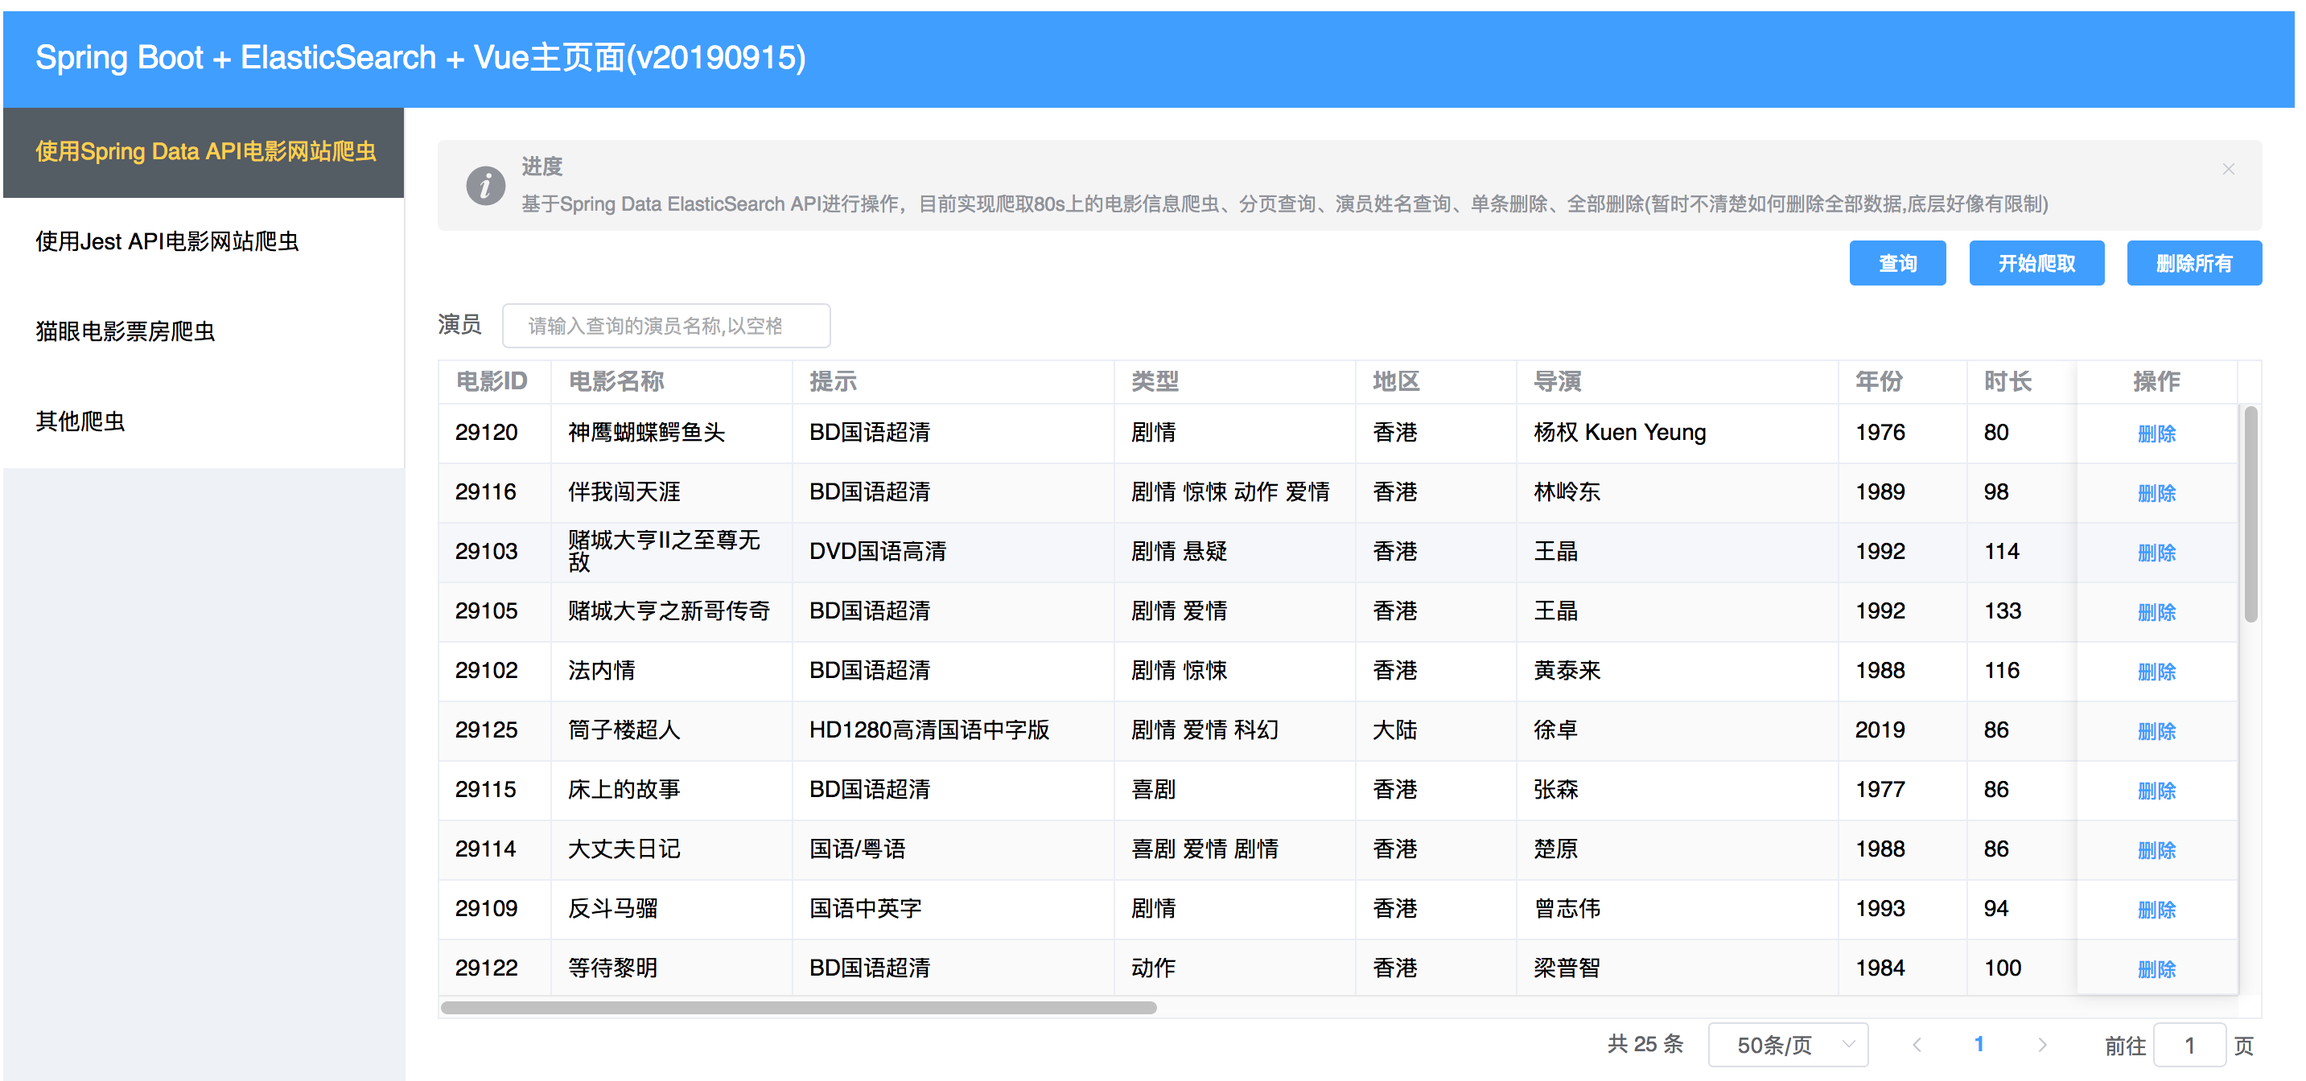
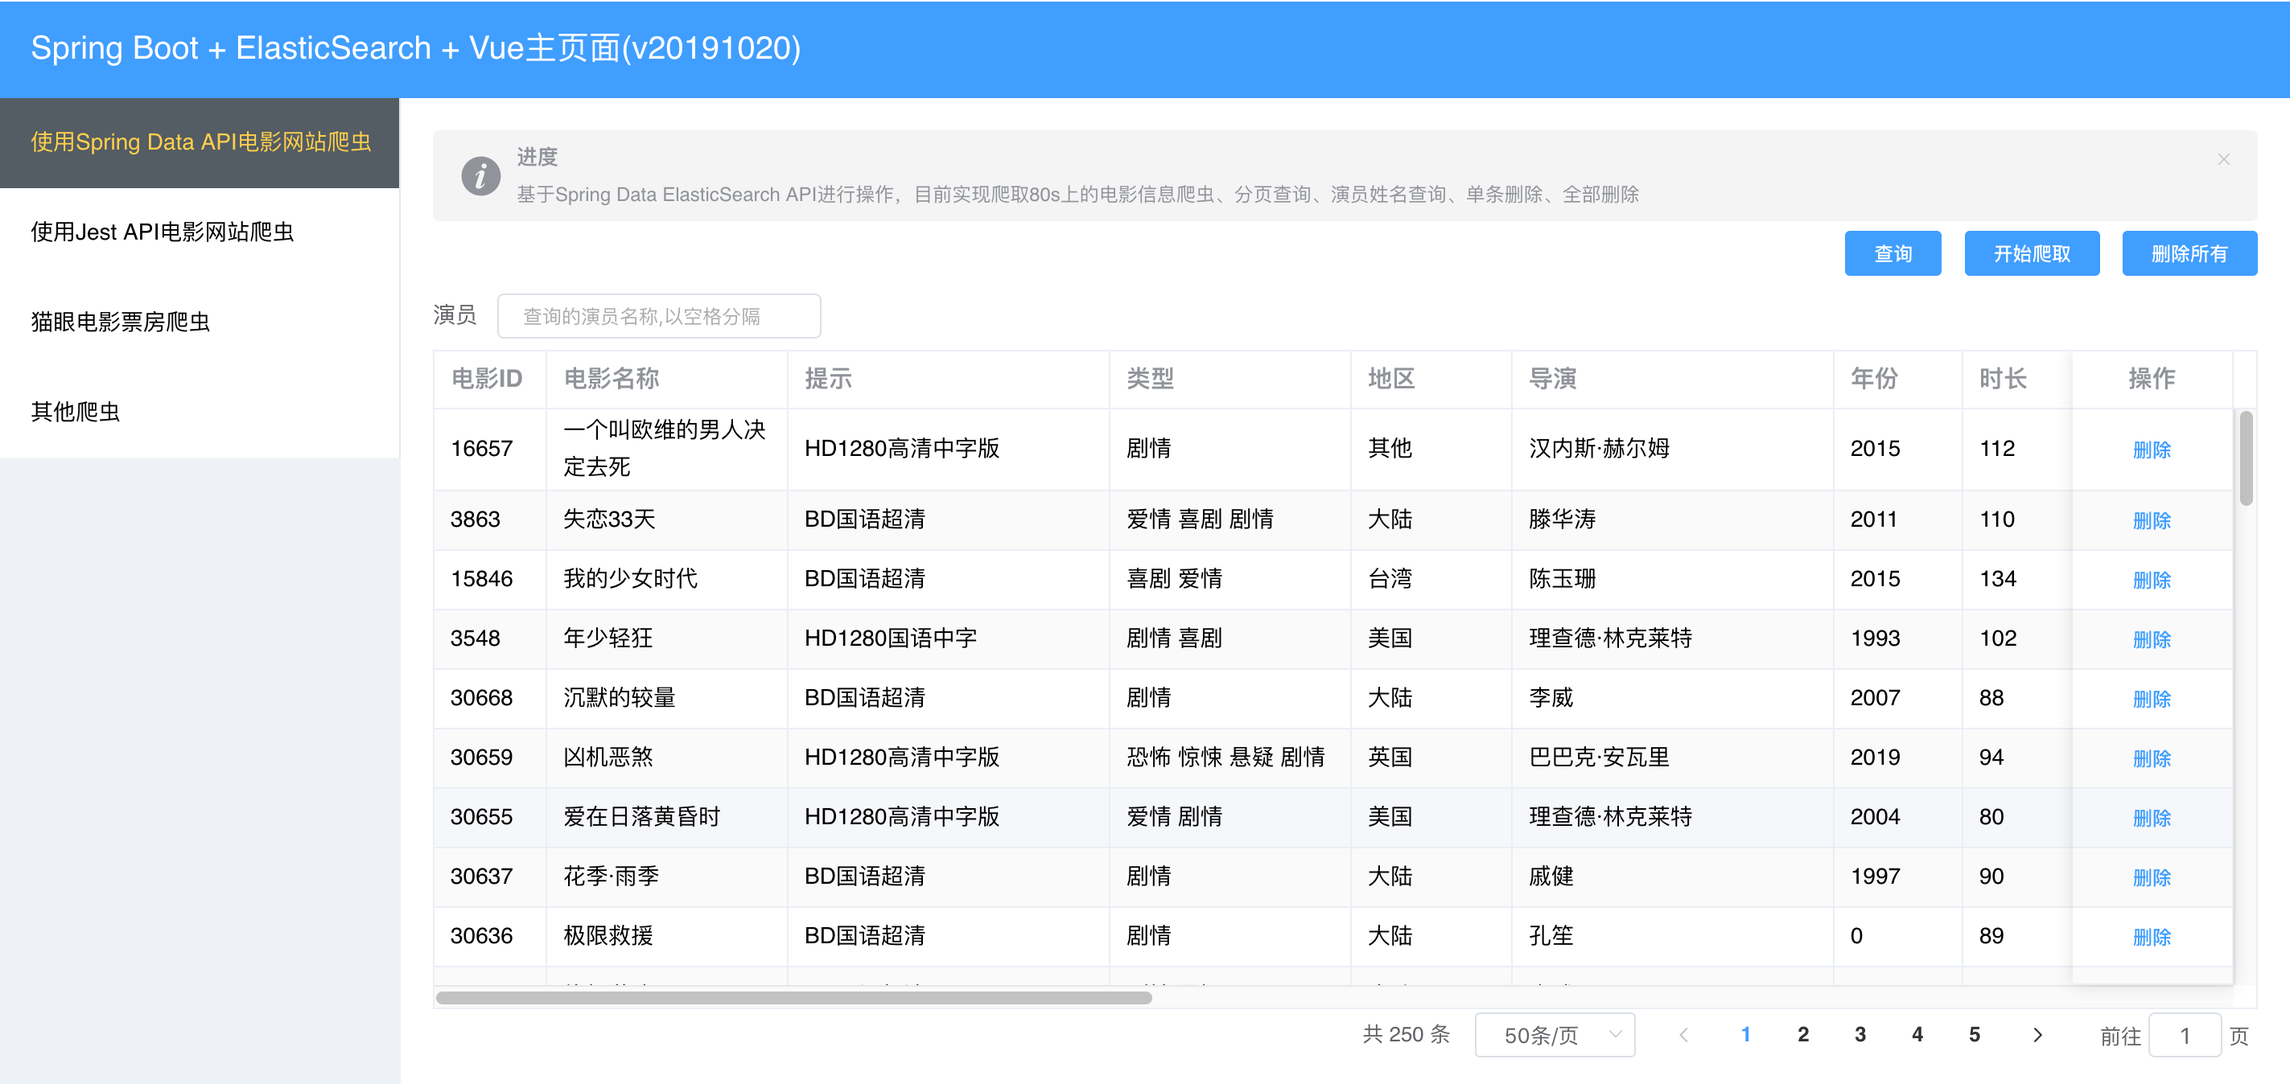
升级Spring Data ElasticSearch版本为3.2,修改相关代码

diff --git a/src/main/resources/static/index.html b/src/main/resources/static/index.html
@@ -40,7 +40,7 @@
         <div id="app">
             <el-container>
                 <el-header class="top">
-                    Spring Boot + ElasticSearch + Vue主页面(v20190915)
+                    Spring Boot + ElasticSearch + Vue主页面(v20191020)
                 </el-header>
                 <el-container>
                     <el-aside width="250px" style="background-color: rgb(238, 241, 246)">
@@ -85,7 +85,7 @@
         var movie = {
                     template :'<div v-loading="vloading"><el-row>\n' +
                 '                            <el-alert title="进度" type="info"\n' +
-                '                                      description="基于Spring Data ElasticSearch API进行操作，目前实现爬取80s上的电影信息爬虫、分页查询、演员姓名查询、单条删除、全部删除(暂时不清楚如何删除全部数据,底层好像有限制)' +
+                '                                      description="基于Spring Data ElasticSearch API进行操作，目前实现爬取80s上的电影信息爬虫、分页查询、演员姓名查询、单条删除、全部删除' +
                         '" show-icon>\n' +
                 '                            </el-alert>\n' +
                 '                        </el-row>\n' +

diff --git a/src/main/java/com/china/elasticsearch/util/MovieDownloadUtil.java b/src/main/java/com/china/elasticsearch/util/MovieDownloadUtil.java
@@ -18,7 +18,7 @@ import java.util.regex.Pattern;
  */
 public class MovieDownloadUtil {
 
-   public static final String ROOT_URL =  "http://80s.la";
+   public static final String ROOT_URL =  "http://www.8080s.net";
 
     public static final String BASIC_URL = ROOT_URL + "/movie/list/-----p";
 
@@ -28,7 +28,7 @@ public class MovieDownloadUtil {
 
     public static final String USER_AGENT = "Mozilla/5.0 (Macintosh; Intel Mac OS X 10.12; rv:61.0) Gecko/20100101 Firefox/61.0";
 
-    public static final int TOTAL_PAGE = 1;
+    public static final int TOTAL_PAGE = 10;
 
     public static void main(String[] args){
         startGetMovies();
@@ -67,10 +67,20 @@ public class MovieDownloadUtil {
             Document detailDocument = Jsoup.connect(ROOT_URL + href).userAgent(USER_AGENT).get();
             Element infoEle = detailDocument.select(DEATAIL_CSS_PATH).get(0);
             String deMovieName = infoEle.selectFirst("h1.font14w").text();
-            String year = deMovieName.substring(deMovieName.indexOf("(") + 1,deMovieName.lastIndexOf(")"));//年份
-            if("未知".equals(year)){
-                year = "0";
+            int year = 0;
+            try{
+                String yearStr = deMovieName.substring(deMovieName.lastIndexOf("(") + 1,deMovieName.lastIndexOf(")"));//年份
+                if("未知".equals(yearStr)){
+                    year = 0;
+                }else{
+                    year = Integer.parseInt(yearStr);
+                }
+            }catch(Exception e){
+                e.printStackTrace();
+                System.out.println(movieName);
             }
+
+
 
             String tip = infoEle.selectFirst(".tip") != null ? infoEle.selectFirst(".tip").text() :"";//版本提示
 
@@ -97,7 +107,7 @@ public class MovieDownloadUtil {
 
             entity.setMovieId(movieId);
             entity.setMovieName(movieName);
-            entity.setYear(Integer.parseInt(year));
+            entity.setYear(year);
             entity.setTip(tip);
             entity.setScore(Double.parseDouble(scoreText));
 

diff --git a/src/main/java/com/china/elasticsearch/bean/MovieEntity.java b/src/main/java/com/china/elasticsearch/bean/MovieEntity.java
@@ -59,6 +59,9 @@ public class MovieEntity implements Serializable {
     /**片长*/
     private int minute;
 
+    private Date createDate;
+
+    private Date updateDate;
 
     public String getMovieId() {
         return movieId;
@@ -154,5 +157,21 @@ public class MovieEntity implements Serializable {
 
     public void setMinute(int minute) {
         this.minute = minute;
+    }
+
+    public Date getCreateDate() {
+        return createDate;
+    }
+
+    public void setCreateDate(Date createDate) {
+        this.createDate = createDate;
+    }
+
+    public Date getUpdateDate() {
+        return updateDate;
+    }
+
+    public void setUpdateDate(Date updateDate) {
+        this.updateDate = updateDate;
     }
 }

diff --git a/src/main/java/com/china/elasticsearch/service/impl/MovieService.java b/src/main/java/com/china/elasticsearch/service/impl/MovieService.java
@@ -86,6 +86,11 @@ public class MovieService implements IMovieService {
     public void startDownloadMovie(){
         System.out.println("--------------准备开始爬取--------------");
         List<MovieEntity> list = MovieDownloadUtil.startGetMovies();
+        if(list != null && list.size() > 0){
+            for(MovieEntity entity : list){
+                entity.setCreateDate(new Date());
+            }
+        }
         System.out.println("--------------爬取完成--------------");
         movieDao.saveBatch(list);
         System.out.println("--------------保存完成--------------");

diff --git a/src/main/java/com/china/elasticsearch/common/BaseElasticSearchDaoImpl.java b/src/main/java/com/china/elasticsearch/common/BaseElasticSearchDaoImpl.java
@@ -143,14 +143,13 @@ public class BaseElasticSearchDaoImpl implements IBaseElasticSearchDao{
 
 
     /**
-     * 删除所有数据,目前好像只能删除前1000条
+     * 删除所有数据
      * @param entityClass
      */
     @Override
     public void deleteAll(Class<?> entityClass){
         DeleteQuery query = new DeleteQuery();
         query.setQuery(matchAllQuery());
-        //这里底层目前好像是只删除前1000条,如果没有指定size的话
         elasticsearchTemplate.delete(query,entityClass);
     }
 

diff --git a/src/main/java/com/china/elasticsearch/controller/FirstESController.java b/src/main/java/com/china/elasticsearch/controller/FirstESController.java
@@ -108,7 +108,6 @@ public class FirstESController {
                 .withUpdateRequest(up)
                 .withClass(FirstBook.class)
                 .build();
-
         elasticsearchTemplate.update(updateQuery);
     }
 

diff --git a/README.md b/README.md
@@ -1,9 +1,9 @@
-# 基于ElasticSearch6.8.2研究
+# 基于ElasticSearch6.8.2进行开发
 
 ## 项目描述
 基于Docker环境运行的ElasticSearch6.8.2,目前项目中集成了3种与ElasticSearch交互的API:
-1. 使用Spring Data ElasticSearch 3.1.10,需使用ES API为6.2.2
-2. 使用Rest High Level Client 6.2.2
+1. 使用Spring Data ElasticSearch 3.2.0,需使用ES API为6.8.2
+2. 使用Rest High Level Client 6.8.2
 3. 使用Jest API 6.3.1
 
 项目暂时未使用脚手架的方式开发Vue前端界面,采用了原始的方式进行开发
@@ -11,13 +11,13 @@
 ## 技术架构
 
 1. JDK 1.8
-2. Spring Boot 2.1.7
-3. Spring 5.1.9
+2. Spring Boot 2.2.0
+3. Spring 5.2.0
 4. Tomcat 9.0.22
 5. Docker 18.09.1
-6. ElasticSearch API 6.2.2
-7. Spring Data ElasticSearch 3.1.10
-8. Rest High Level Client 6.2.2
+6. ElasticSearch API 6.8.2
+7. Spring Data ElasticSearch 3.2.0
+8. Rest High Level Client 6.8.2
 9. Jest API 6.3.1
 10. Vue2.6 + Vue Router + Element UI 2.11.1 + Axios + Qs
 
@@ -26,6 +26,7 @@
 |  API名称   | 端口  | 协议  | 说明  |
 |  ----  | ----  | ----   | ----  |
 |  Spring Data ElasticSearch   | 9300  | TCP  | 强依赖、上手容易、操作简单、依赖ES驱动包  |
+|  Spring Data ElasticSearch   | 9200  | HTTP  | 强依赖、上手容易、操作简单、依赖ES驱动包,3.2版本开始  |
 |  High Level RestClient  | 9200  | HTTP  |  官方推荐、依赖ES驱动包  |
 |  Jest   | 9200  | HTTP  | 弱依赖、可以不使用ES的驱动包  |
 
@@ -39,7 +40,7 @@
 目前实现：
 1. 从80s网站爬虫电影信息,使用Jsoup
 2. 页面的分页查询操作,使用Spring Data ElasticSearch与Jest API
-3. 全部删除操作(Jest Api使用deleteByQuery，Spring Data API可能是分页删除的)
+3. 全部删除操作
 4. 单条删除操作
 5. 根据演员信息进行查询(Spring Data ElasticSearch好使)
 
@@ -51,7 +52,7 @@
 
 ## 核心代码/业务/经验说明
 1. 由于ES的写入和刷新机制,对文档进行写操作后,默认1s内进行查询不会实时看见数据,所以需要在API层面或代码层面进行控制,对于实时性要求较高的
-2. 由于Spring Data ElasticSearch对ElasticSearch客户端的Java API较高,应按照官方推荐进行设置,这里将ES API更改为6.2.2
+2. 由于Spring Data ElasticSearch对ElasticSearch客户端的Java API较高,应按照官方推荐进行设置,这里将ES API更改为6.8.2
 3. 对于演员字段来说，目前存储到数据库中的格式为多个空格分隔演员名称,那么为了能够被检索出来，需要设置该字段的分析器未whitespace,这样当搜索【刘德华】时才可以被检索出来
 4. 默认情况下match的同一个字段被ES分词后,多个词为或者的关系，如果想查找某几个演员同时参与的电影信息,需要设置operator为and
 ````
@@ -84,43 +85,46 @@ docker run -e ES_JAVA_OPTS="-Xms512m -Xmx512m" -d -p 9200:9200 -p 9300:9300 --na
 执行StartMainApplication.java文件
 
 ````
+ 
   .   ____          _            __ _ _
  /\\ / ___'_ __ _ _(_)_ __  __ _ \ \ \ \
 ( ( )\___ | '_ | '_| | '_ \/ _` | \ \ \ \
  \\/  ___)| |_)| | | | | || (_| |  ) ) ) )
   '  |____| .__|_| |_|_| |_\__, | / / / /
  =========|_|==============|___/=/_/_/_/
- :: Spring Boot ::        (v2.1.7.RELEASE)
+ :: Spring Boot ::        (v2.2.0.RELEASE)
 
-2019-09-15 19:06:45.136  INFO 11984 --- [  restartedMain] c.c.elasticsearch.StartMainApplication   : Starting StartMainApplication on longyu-mac.local with PID 11984 (/develop/IdeaWork/elasticsearchstudy/target/classes started by longyu in /develop/IdeaWork/elasticsearchstudy)
-2019-09-15 19:06:45.139  INFO 11984 --- [  restartedMain] c.c.elasticsearch.StartMainApplication   : No active profile set, falling back to default profiles: default
-2019-09-15 19:06:45.185  INFO 11984 --- [  restartedMain] .e.DevToolsPropertyDefaultsPostProcessor : Devtools property defaults active! Set 'spring.devtools.add-properties' to 'false' to disable
-2019-09-15 19:06:45.185  INFO 11984 --- [  restartedMain] .e.DevToolsPropertyDefaultsPostProcessor : For additional web related logging consider setting the 'logging.level.web' property to 'DEBUG'
-2019-09-15 19:06:45.619  INFO 11984 --- [  restartedMain] .s.d.r.c.RepositoryConfigurationDelegate : Bootstrapping Spring Data repositories in DEFAULT mode.
-2019-09-15 19:06:45.636  INFO 11984 --- [  restartedMain] .s.d.r.c.RepositoryConfigurationDelegate : Finished Spring Data repository scanning in 13ms. Found 0 repository interfaces.
-2019-09-15 19:06:46.097  INFO 11984 --- [  restartedMain] o.s.b.w.embedded.tomcat.TomcatWebServer  : Tomcat initialized with port(s): 7071 (http)
-2019-09-15 19:06:46.114  INFO 11984 --- [  restartedMain] o.apache.catalina.core.StandardService   : Starting service [Tomcat]
-2019-09-15 19:06:46.115  INFO 11984 --- [  restartedMain] org.apache.catalina.core.StandardEngine  : Starting Servlet engine: [Apache Tomcat/9.0.22]
-2019-09-15 19:06:46.175  INFO 11984 --- [  restartedMain] o.a.c.c.C.[Tomcat].[localhost].[/]       : Initializing Spring embedded WebApplicationContext
-2019-09-15 19:06:46.175  INFO 11984 --- [  restartedMain] o.s.web.context.ContextLoader            : Root WebApplicationContext: initialization completed in 990 ms
-2019-09-15 19:06:46.333  INFO 11984 --- [  restartedMain] o.elasticsearch.plugins.PluginsService   : no modules loaded
-2019-09-15 19:06:46.334  INFO 11984 --- [  restartedMain] o.elasticsearch.plugins.PluginsService   : loaded plugin [org.elasticsearch.index.reindex.ReindexPlugin]
-2019-09-15 19:06:46.334  INFO 11984 --- [  restartedMain] o.elasticsearch.plugins.PluginsService   : loaded plugin [org.elasticsearch.join.ParentJoinPlugin]
-2019-09-15 19:06:46.334  INFO 11984 --- [  restartedMain] o.elasticsearch.plugins.PluginsService   : loaded plugin [org.elasticsearch.percolator.PercolatorPlugin]
-2019-09-15 19:06:46.334  INFO 11984 --- [  restartedMain] o.elasticsearch.plugins.PluginsService   : loaded plugin [org.elasticsearch.script.mustache.MustachePlugin]
-2019-09-15 19:06:46.334  INFO 11984 --- [  restartedMain] o.elasticsearch.plugins.PluginsService   : loaded plugin [org.elasticsearch.transport.Netty4Plugin]
-2019-09-15 19:06:46.890  INFO 11984 --- [  restartedMain] o.s.d.e.c.TransportClientFactoryBean     : Adding transport node : 127.0.0.1:9300
-2019-09-15 19:06:47.362  INFO 11984 --- [  restartedMain] io.searchbox.client.AbstractJestClient   : Setting server pool to a list of 1 servers: [http://127.0.0.1:9200]
-2019-09-15 19:06:47.362  INFO 11984 --- [  restartedMain] io.searchbox.client.JestClientFactory    : Using multi thread/connection supporting pooling connection manager
-2019-09-15 19:06:47.381  INFO 11984 --- [  restartedMain] io.searchbox.client.JestClientFactory    : Using custom GSON instance
-2019-09-15 19:06:47.381  INFO 11984 --- [  restartedMain] io.searchbox.client.JestClientFactory    : Node Discovery disabled...
-2019-09-15 19:06:47.381  INFO 11984 --- [  restartedMain] io.searchbox.client.JestClientFactory    : Idle connection reaping disabled...
-2019-09-15 19:06:47.467  INFO 11984 --- [  restartedMain] o.s.b.d.a.OptionalLiveReloadServer       : LiveReload server is running on port 35729
+2019-10-20 12:56:00.824  INFO 34789 --- [  restartedMain] c.c.elasticsearch.StartMainApplication   : Starting StartMainApplication on longyu-mac.local with PID 34789 (/develop/IdeaWork/elasticsearchstudy/target/classes started by longyu in /develop/IdeaWork/elasticsearchstudy)
+2019-10-20 12:56:00.825  INFO 34789 --- [  restartedMain] c.c.elasticsearch.StartMainApplication   : No active profile set, falling back to default profiles: default
+2019-10-20 12:56:00.968  INFO 34789 --- [  restartedMain] .s.d.r.c.RepositoryConfigurationDelegate : Bootstrapping Spring Data repositories in DEFAULT mode.
+2019-10-20 12:56:00.973  INFO 34789 --- [  restartedMain] .s.d.r.c.RepositoryConfigurationDelegate : Finished Spring Data repository scanning in 4ms. Found 0 repository interfaces.
+2019-10-20 12:56:00.974  INFO 34789 --- [  restartedMain] .s.d.r.c.RepositoryConfigurationDelegate : Bootstrapping Spring Data repositories in DEFAULT mode.
+2019-10-20 12:56:00.979  INFO 34789 --- [  restartedMain] .s.d.r.c.RepositoryConfigurationDelegate : Finished Spring Data repository scanning in 4ms. Found 0 repository interfaces.
+2019-10-20 12:56:01.034  WARN 34789 --- [  restartedMain] org.apache.tomcat.util.modeler.Registry  : The MBean registry cannot be disabled because it has already been initialised
+2019-10-20 12:56:01.051  INFO 34789 --- [  restartedMain] o.s.b.w.embedded.tomcat.TomcatWebServer  : Tomcat initialized with port(s): 7071 (http)
+2019-10-20 12:56:01.052  INFO 34789 --- [  restartedMain] o.apache.catalina.core.StandardService   : Starting service [Tomcat]
+2019-10-20 12:56:01.052  INFO 34789 --- [  restartedMain] org.apache.catalina.core.StandardEngine  : Starting Servlet engine: [Apache Tomcat/9.0.27]
+2019-10-20 12:56:01.058  INFO 34789 --- [  restartedMain] o.a.c.c.C.[Tomcat].[localhost].[/]       : Initializing Spring embedded WebApplicationContext
+2019-10-20 12:56:01.058  INFO 34789 --- [  restartedMain] o.s.web.context.ContextLoader            : Root WebApplicationContext: initialization completed in 231 ms
+2019-10-20 12:56:01.073  INFO 34789 --- [  restartedMain] o.elasticsearch.plugins.PluginsService   : no modules loaded
+2019-10-20 12:56:01.073  INFO 34789 --- [  restartedMain] o.elasticsearch.plugins.PluginsService   : loaded plugin [org.elasticsearch.index.reindex.ReindexPlugin]
+2019-10-20 12:56:01.074  INFO 34789 --- [  restartedMain] o.elasticsearch.plugins.PluginsService   : loaded plugin [org.elasticsearch.join.ParentJoinPlugin]
+2019-10-20 12:56:01.074  INFO 34789 --- [  restartedMain] o.elasticsearch.plugins.PluginsService   : loaded plugin [org.elasticsearch.percolator.PercolatorPlugin]
+2019-10-20 12:56:01.074  INFO 34789 --- [  restartedMain] o.elasticsearch.plugins.PluginsService   : loaded plugin [org.elasticsearch.script.mustache.MustachePlugin]
+2019-10-20 12:56:01.074  INFO 34789 --- [  restartedMain] o.elasticsearch.plugins.PluginsService   : loaded plugin [org.elasticsearch.transport.Netty4Plugin]
+2019-10-20 12:56:01.084  INFO 34789 --- [  restartedMain] o.s.d.e.c.TransportClientFactoryBean     : Adding transport node : 127.0.0.1:9300
+2019-10-20 12:56:01.122  INFO 34789 --- [  restartedMain] io.searchbox.client.AbstractJestClient   : Setting server pool to a list of 1 servers: [http://127.0.0.1:9200]
+2019-10-20 12:56:01.122  INFO 34789 --- [  restartedMain] io.searchbox.client.JestClientFactory    : Using multi thread/connection supporting pooling connection manager
+2019-10-20 12:56:01.123  INFO 34789 --- [  restartedMain] io.searchbox.client.JestClientFactory    : Using custom GSON instance
+2019-10-20 12:56:01.123  INFO 34789 --- [  restartedMain] io.searchbox.client.JestClientFactory    : Node Discovery disabled...
+2019-10-20 12:56:01.123  INFO 34789 --- [  restartedMain] io.searchbox.client.JestClientFactory    : Idle connection reaping disabled...
+2019-10-20 12:56:01.144  INFO 34789 --- [  restartedMain] o.s.b.d.a.OptionalLiveReloadServer       : LiveReload server is running on port 35729
 --------------初始化时创建索引movie
-2019-09-15 19:06:47.651  INFO 11984 --- [  restartedMain] o.s.s.concurrent.ThreadPoolTaskExecutor  : Initializing ExecutorService 'applicationTaskExecutor'
-2019-09-15 19:06:47.702  INFO 11984 --- [  restartedMain] o.s.b.a.w.s.WelcomePageHandlerMapping    : Adding welcome page: class path resource [static/index.html]
-2019-09-15 19:06:47.794  INFO 11984 --- [  restartedMain] o.s.b.w.embedded.tomcat.TomcatWebServer  : Tomcat started on port(s): 7071 (http) with context path ''
-2019-09-15 19:06:47.797  INFO 11984 --- [  restartedMain] c.c.elasticsearch.StartMainApplication   : Started StartMainApplication in 2.998 seconds (JVM running for 3.639)
+2019-10-20 12:56:01.190  INFO 34789 --- [  restartedMain] o.s.s.concurrent.ThreadPoolTaskExecutor  : Initializing ExecutorService 'applicationTaskExecutor'
+2019-10-20 12:56:01.201  INFO 34789 --- [  restartedMain] o.s.b.a.w.s.WelcomePageHandlerMapping    : Adding welcome page: class path resource [static/index.html]
+2019-10-20 12:56:01.235  INFO 34789 --- [  restartedMain] o.s.b.w.embedded.tomcat.TomcatWebServer  : Tomcat started on port(s): 7071 (http) with context path ''
+2019-10-20 12:56:01.235  INFO 34789 --- [  restartedMain] c.c.elasticsearch.StartMainApplication   : Started StartMainApplication in 0.573 seconds (JVM running for 4787.312)
+2019-10-20 12:56:01.236  INFO 34789 --- [  restartedMain] .ConditionEvaluationDeltaLoggingListener : Condition evaluation unchanged
 
 ````
 
